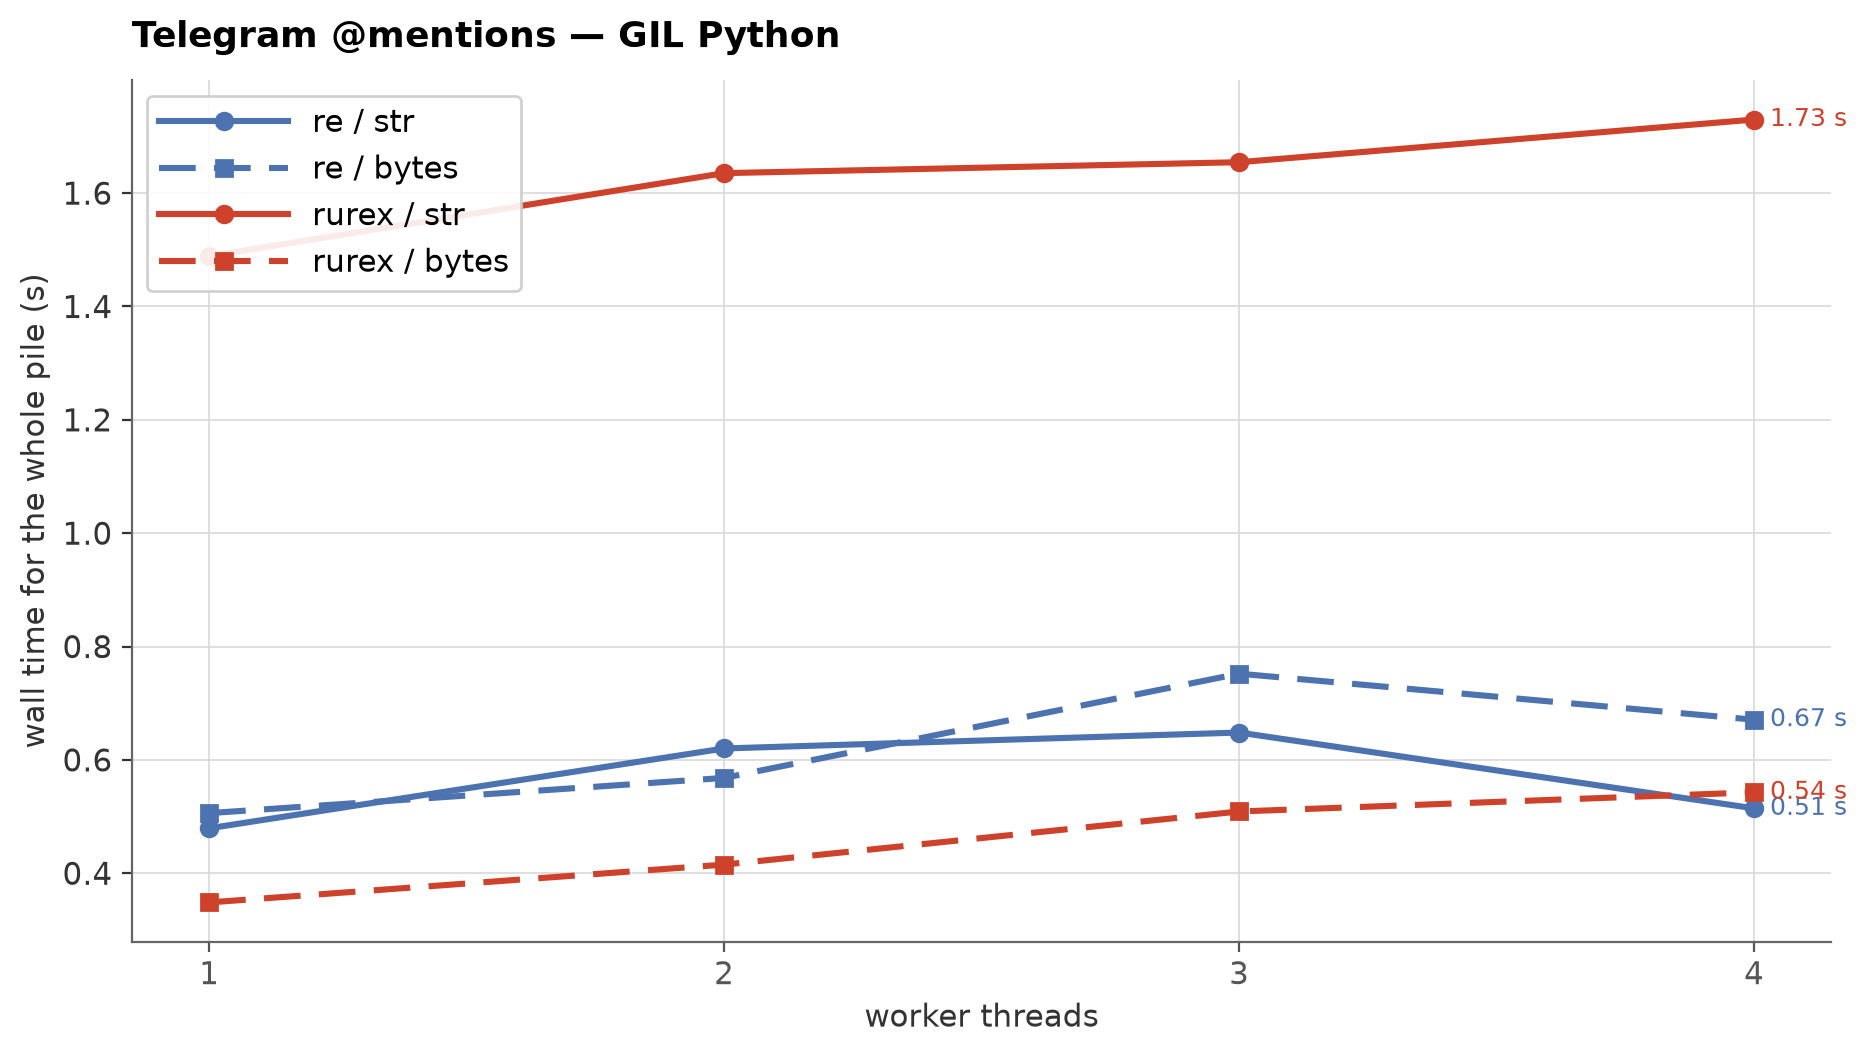
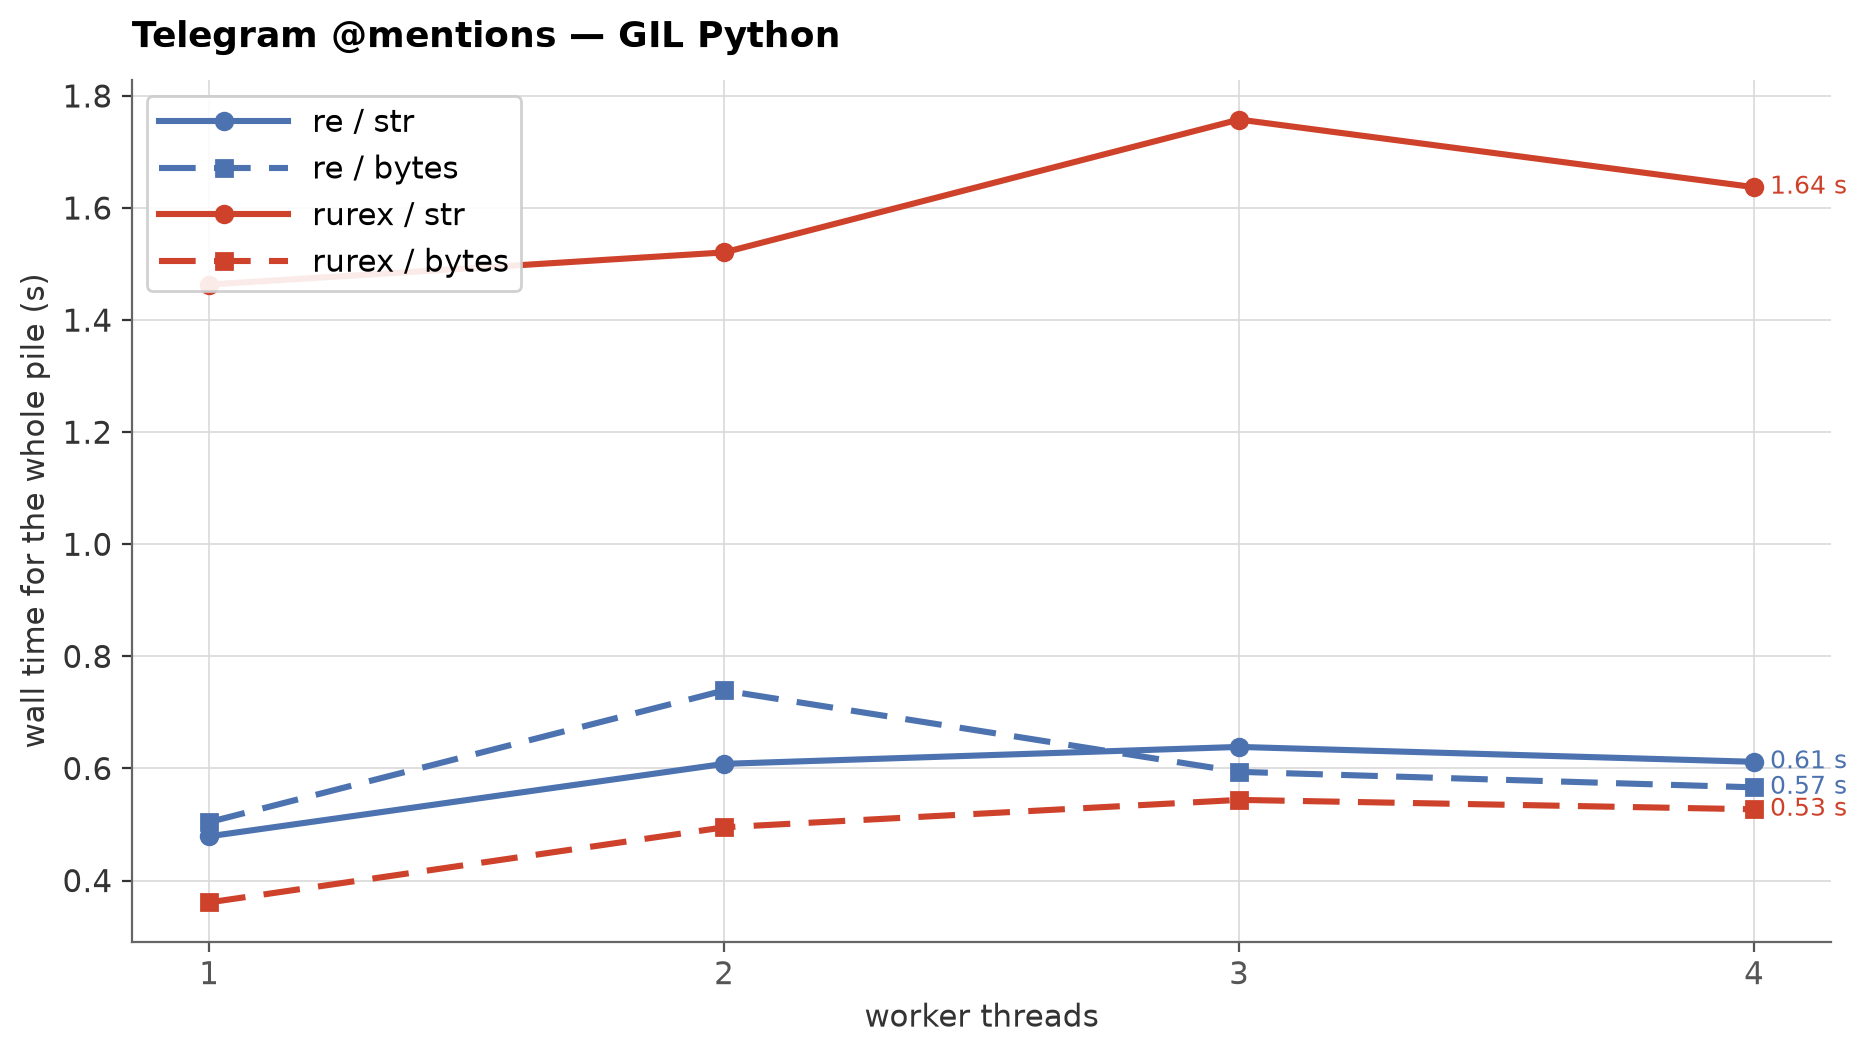
benchmarks(telegram): results from the UTF-8 borrow build

diff --git a/docs/telegram-benchmarks.md b/docs/telegram-benchmarks.md
@@ -36,10 +36,10 @@ single-threaded.
 
 | Workers | `re` str | `re` bytes | rurex str | rurex bytes | rurex/re str | rurex/re bytes |
 |---:|---:|---:|---:|---:|---:|---:|
-| 1 | 0.48 s | 0.51 s | 1.49 s | 0.35 s | ×3.1 | ×0.7 |
-| 2 | 0.62 s | 0.57 s | 1.64 s | 0.42 s | ×2.6 | ×0.7 |
-| 3 | 0.65 s | 0.75 s | 1.65 s | 0.51 s | ×2.6 | ×0.7 |
-| 4 | 0.51 s | 0.67 s | 1.73 s | 0.54 s | ×3.4 | ×0.8 |
+| 1 | 0.48 s | 0.50 s | 1.46 s | 0.36 s | ×3.1 | ×0.7 |
+| 2 | 0.61 s | 0.74 s | 1.52 s | 0.49 s | ×2.5 | ×0.7 |
+| 3 | 0.64 s | 0.59 s | 1.76 s | 0.54 s | ×2.8 | ×0.9 |
+| 4 | 0.61 s | 0.57 s | 1.64 s | 0.53 s | ×2.7 | ×0.9 |
 
 *(ratio < 1 = rurex faster)*
 
@@ -69,10 +69,10 @@ dominates — the same ceiling `re` bytes hits at 0.51 → 0.67 s).
 
 | Workers | `re` str | `re` bytes | rurex str | rurex bytes | rurex/re str | rurex/re bytes |
 |---:|---:|---:|---:|---:|---:|---:|
-| 1 | 0.50 s | 0.42 s | 1.82 s | 0.43 s | ×3.7 | ×1.0 |
-| 2 | 0.27 s | 0.26 s | 1.04 s | 0.33 s | ×3.8 | ×1.3 |
-| 3 | 0.22 s | 0.20 s | 0.64 s | 0.30 s | ×2.9 | ×1.5 |
-| 4 | 0.20 s | 0.19 s | 0.65 s | 0.30 s | ×3.3 | ×1.6 |
+| 1 | 0.44 s | 0.40 s | 1.47 s | 0.43 s | ×3.3 | ×1.1 |
+| 2 | 0.27 s | 0.25 s | 0.82 s | 0.37 s | ×3.0 | ×1.5 |
+| 3 | 0.22 s | 0.30 s | 0.68 s | 0.33 s | ×3.1 | ×1.1 |
+| 4 | 0.26 s | 0.20 s | 0.59 s | 0.35 s | ×2.3 | ×1.7 |
 
 *(ratio < 1 = rurex faster)*
 
